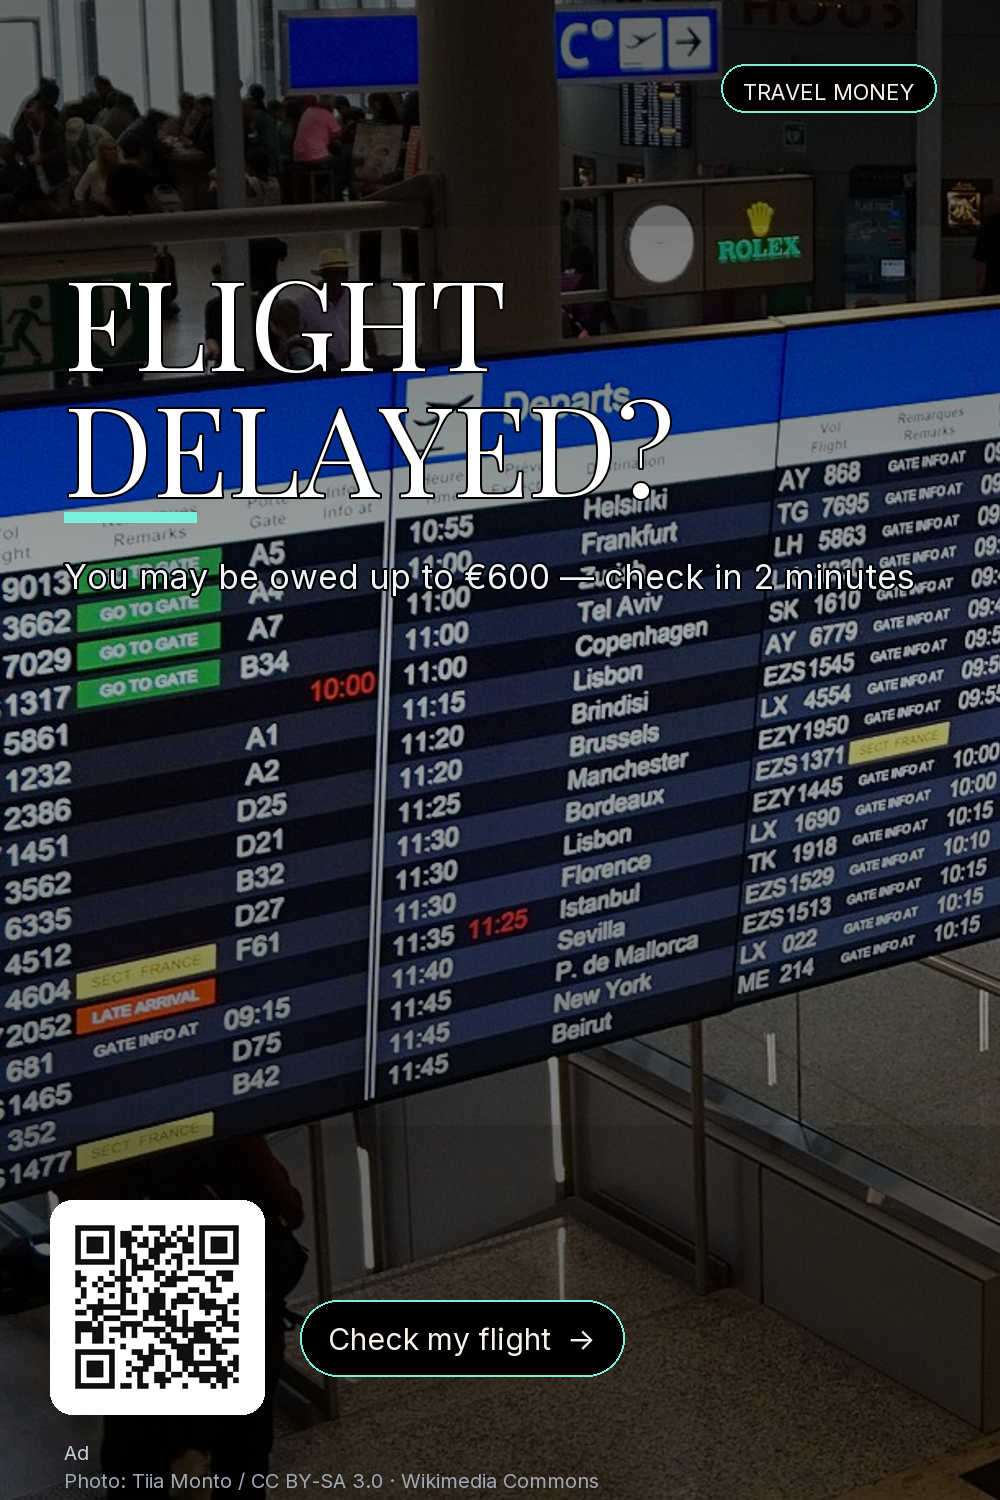
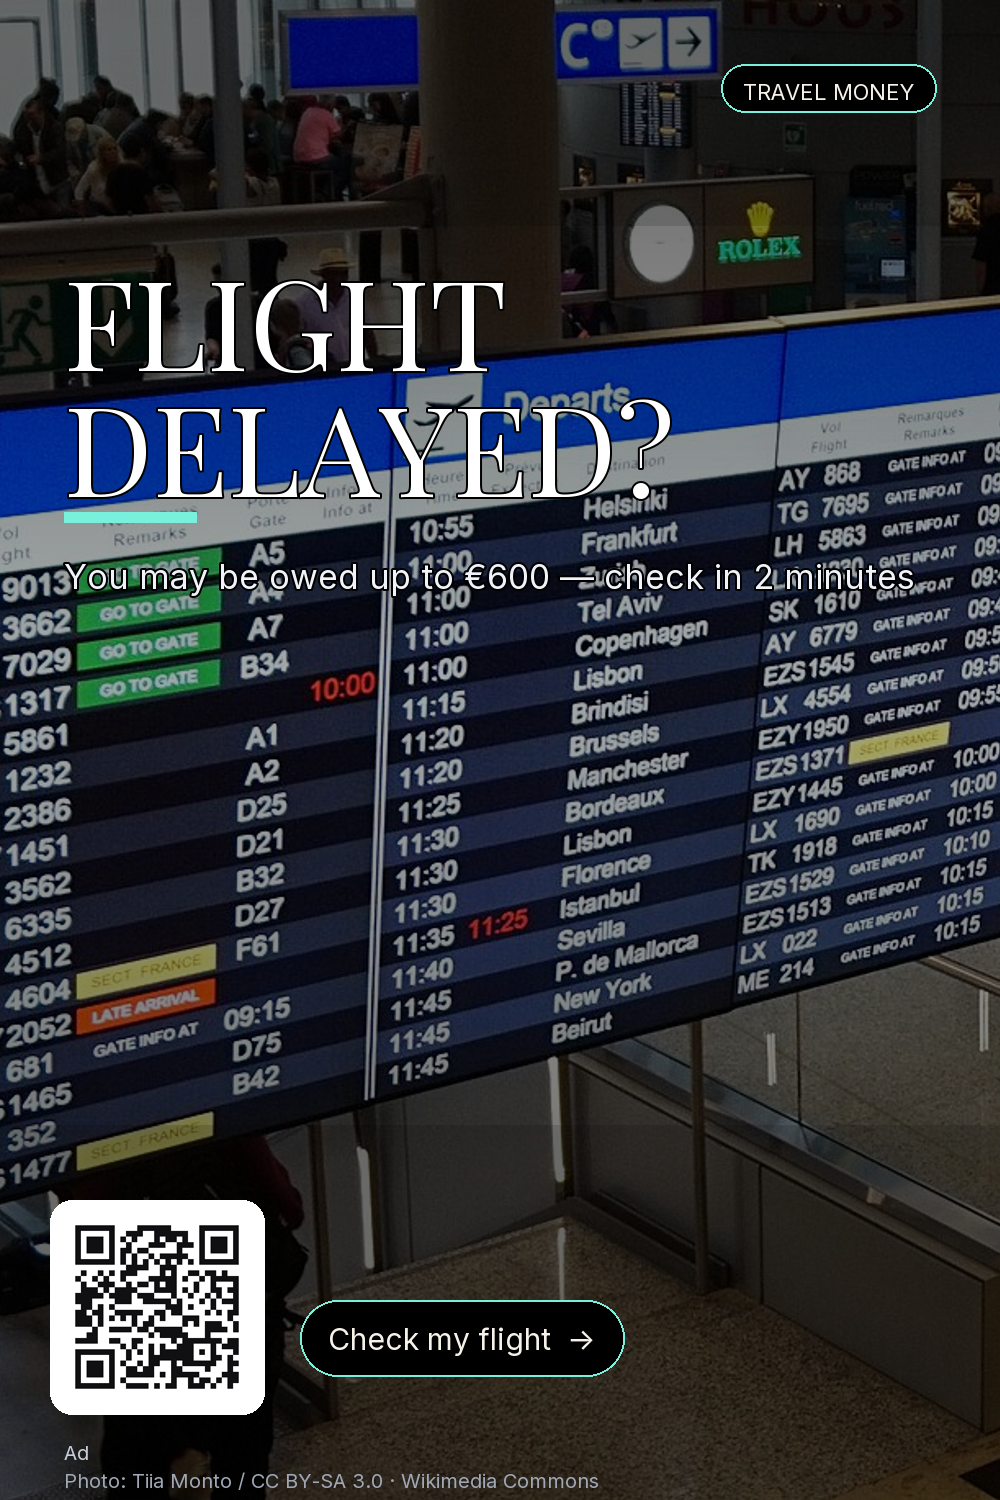
fix(pins): flight-compensation -> airhelp (compensair.com redirect loop)
compensair landing returned a self-referencing 301 (//?utm...) for every
click; airhelp partner link lands on airhelp.com with affiliate params (200).
Regenerated v5/qr-v2/legacy photo+qr batches, CSVs, QA report (9/9), docs.

Changed region(s): [[0.062, 0.7973, 0.248, 0.9507]]

diff --git a/scripts/build_qr_pins_v2.py b/scripts/build_qr_pins_v2.py
@@ -27,7 +27,7 @@ PINS = [
  {"slug":"europe-under-300-qr","tag":"BUDGET","headline":"EUROPE\nUNDER $300","promise":"A 3-night city break: cheapest months and booking windows","cta":"Find flights","program":"aviasales","accent":(176,62,92),"scene":"city"},
  {"slug":"travel-esim-qr","tag":"TRAVEL ESSENTIAL","headline":"TRAVEL eSIM\nTHAT WORKS","promise":"Install before you fly — data in 200+ countries","cta":"Get eSIM","program":"yesim","accent":(110,88,230),"scene":"city"},
  {"slug":"car-rental-qr","tag":"TRAVEL ESSENTIAL","headline":"CAR RENTAL\nNO SURPRISES","promise":"Local renters, clear fuel policy, excess cover","cta":"Rent a car","program":"localrent","accent":(222,104,44),"scene":"road"},
- {"slug":"flight-compensation-qr","tag":"TRAVEL MONEY","headline":"FLIGHT\nDELAYED?","promise":"You may be owed up to €600 — check in 2 minutes","cta":"Check my flight","program":"compensair","accent":(26,152,148),"scene":"plane"},
+ {"slug":"flight-compensation-qr","tag":"TRAVEL MONEY","headline":"FLIGHT\nDELAYED?","promise":"You may be owed up to €600 — check in 2 minutes","cta":"Check my flight","program":"airhelp","accent":(26,152,148),"scene":"plane"},
 ]
 
 def draw_scene(draw, box, accent, scene):

diff --git a/scripts/build_photo_pins.py b/scripts/build_photo_pins.py
@@ -145,7 +145,7 @@ PINS = [
         "headline": "FLIGHT\nDELAYED?",
         "promise": "You may be owed up to \u20ac600 \u2014 check in 2 minutes",
         "cta": "Check my flight",
-        "program": "compensair",
+        "program": "airhelp",
         "accent": "#78F0DC",
         "title": "Flight delayed? Check if you are owed up to 600 EUR",
         "description": (

diff --git a/scripts/build_qr_pins.py b/scripts/build_qr_pins.py
@@ -78,7 +78,7 @@ PINS = [
         "headline": "Flight delayed?",
         "subtitle": "You may be owed up to €600 — check your flight in 2 minutes",
         "cta": "Scan \u2192 check my flight",
-        "url": "https://compensair.tpk.ro/yhsBLUP1",
+        "url": "https://airhelp.tpk.ro/WbJKruUg",
         "accent": (60, 200, 190),
     },
 ]

diff --git a/docs/pinterest-quality.md b/docs/pinterest-quality.md
@@ -147,7 +147,7 @@ non-standard board names) into errors.
 | europe-under-300-qr | aviasales | `https://aviasales.tpk.ro/2ZW95Xpf` |
 | travel-esim-qr | yesim | `https://yesim.tpk.ro/aU7AT4LC` |
 | car-rental-qr | localrent | `https://localrent.tpk.ro/vGHu8Vuj` |
-| flight-compensation-qr | compensair | `https://compensair.tpk.ro/yhsBLUP1` |
+| flight-compensation-qr | airhelp | `https://airhelp.tpk.ro/WbJKruUg` |
 | gradient/*.png | — (hub fallback) | `https://valdislavn-spec.github.io/content-factory/` |
 
 Проверка:
